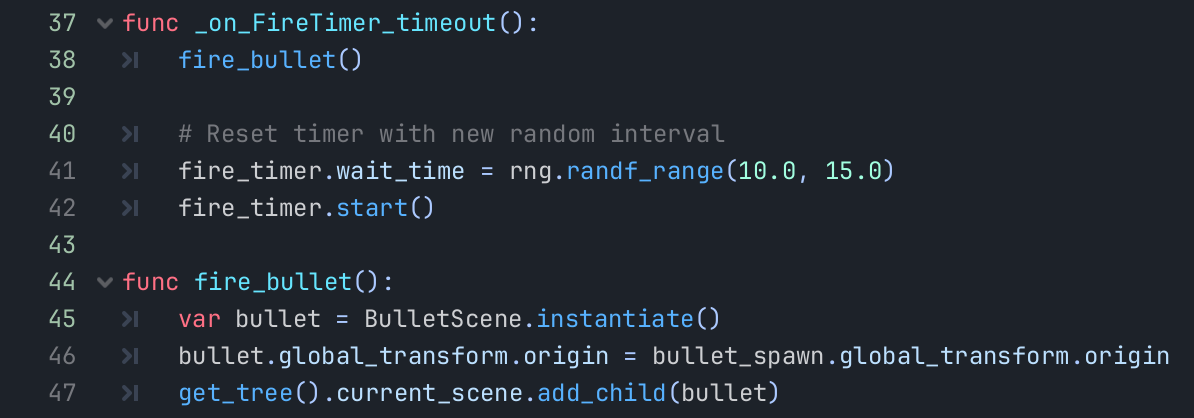
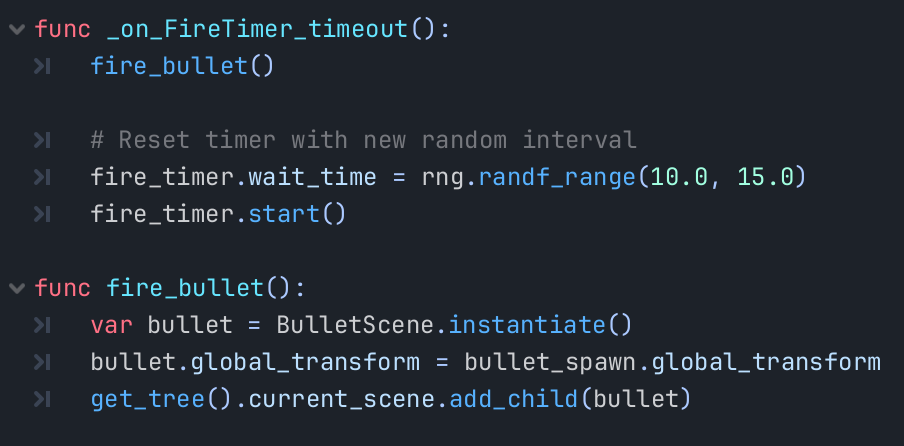
code updates

diff --git a/ISD/2 - Digital Applications/_projects/FPS/Enemy Shooting.md b/ISD/2 - Digital Applications/_projects/FPS/Enemy Shooting.md
@@ -1,20 +1,24 @@
 > [!important] Prerequisites: [[Enemy]]
 
-Enemy shooting, fundamentally, is similar in approach to the player shooting with some minor differences.
+## Overview: How Enemy Shooting Works
 
-The player will **instantiate** a bullet instance, created from the bullet scene when the player presses the `player_shoot` input. The bullet instance is placed in the world at the `bulletSpawn` and the bullet moves 'forward' until it collides with something.
+Enemy shooting works similarly to player shooting, but with a few key differences. While the player fires bullets in response to input (like pressing a key), enemies must fire automatically—based on timers, conditions, or AI logic.
 
-The enemy bullet can't be triggered by an input from the player and must be instantiated by another process. 
+When the player shoots, a bullet is **instantiated** from a scene and placed at a specific spawn point (`bulletSpawn`). It then travels forward until it hits something.
+
+Enemies follow the same basic idea, but their bullets are triggered by internal logic, not player input.
 
 # Enemy Bullet Scene
 
-> [!tip] It is possible to reuse the same `bullet.tscn` scene as the player uses, however this may cause issues later in development if you wish bullets to have different functionality. 
+> [!tip] You _can_ reuse the same `bullet.tscn` used by the player, but it’s better to duplicate it now to allow for future customisation.
 
-Duplicate `bullet.tscn` and `bullet.gd` naming them `enemyBullet.tscn` and `enemyBullet.gd`.
+1. **Duplicate** the player bullet scene and script:
+- Rename them to `enemyBullet.tscn` and `enemyBullet.gd`.
 
 ![[enemyBulletDuplicate.png]]
 
-Right Click on the root node and choose **Detach Script**, and then drag and drop `enemyBullet.gd` onto the root node.
+1. **Detach the original script** from the duplicated scene.
+- Then, attach `enemyBullet.gd` to the root node of the new scene.
 
 ![[enemyBulletDragDrop.gif]]
 
@@ -85,7 +89,7 @@ func _on_FireTimer_timeout():
 
 func fire_bullet():
 	var bullet = BulletScene.instantiate()
-	bullet.global_transform.origin = bullet_spawn.global_transform.origin
+	bullet.global_transform = bullet_spawn.global_transform
 	get_tree().current_scene.add_child(bullet)
 ```
 
@@ -107,4 +111,33 @@ Run the game, and your enemies now should be able to shoot at you 'randomly'. Yo
 ```gdscript
 fire_timer.wait_time = rng.randf_range(10.0, 15.0)
 ```
+
+# Phase 2
+
+Phase 1 of the enemy shooting is basic and simplistic - the enemy simply shoots 'randomly' whichever way it's facing no matter how far away the player is. There are many different ways to upgrade this:
+- Only shoot if the enemy can 'see' the player.
+- Only shoot if the player is within a certain range of the player.
+- And many more.
+
+This phase will focus on upgrading the code so that the enemy will only shoot if the **player is within a certain range**.
+
+Add a new variable at the top of the script to determine the threshold. The units used in Godot is metres.
+
+```gdscript
+const rangeThreshold = 50.0
+```
+
+![[enemyShootingThreshold.png]]
+
+Update the `_on_FireTimer_timeout()` to check the distance to the player before firing a bullet.
+
+```gdscript
+var player = root_node.get_node("Player")
+	var distance_to_player = global_transform.origin.distance_to(player.global_position)
+		
+	if distance_to_player <= rangeThreshold:
+		fire_bullet()
+```
+
+![[enemyShootingCheckDistance.png]]
 
